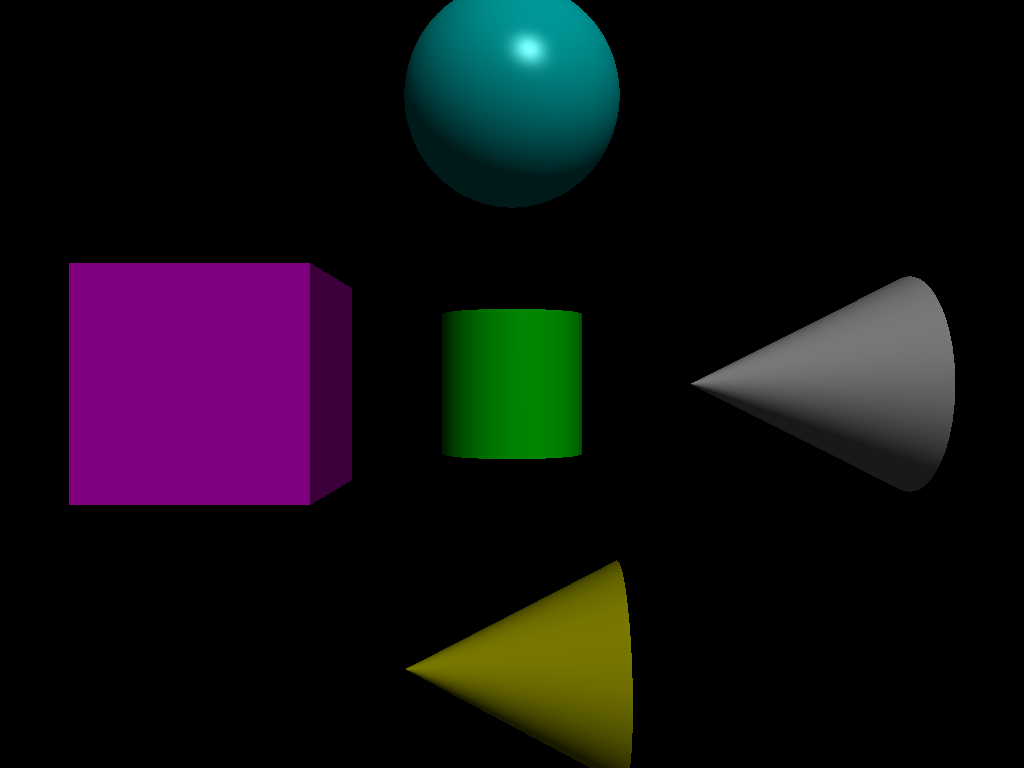
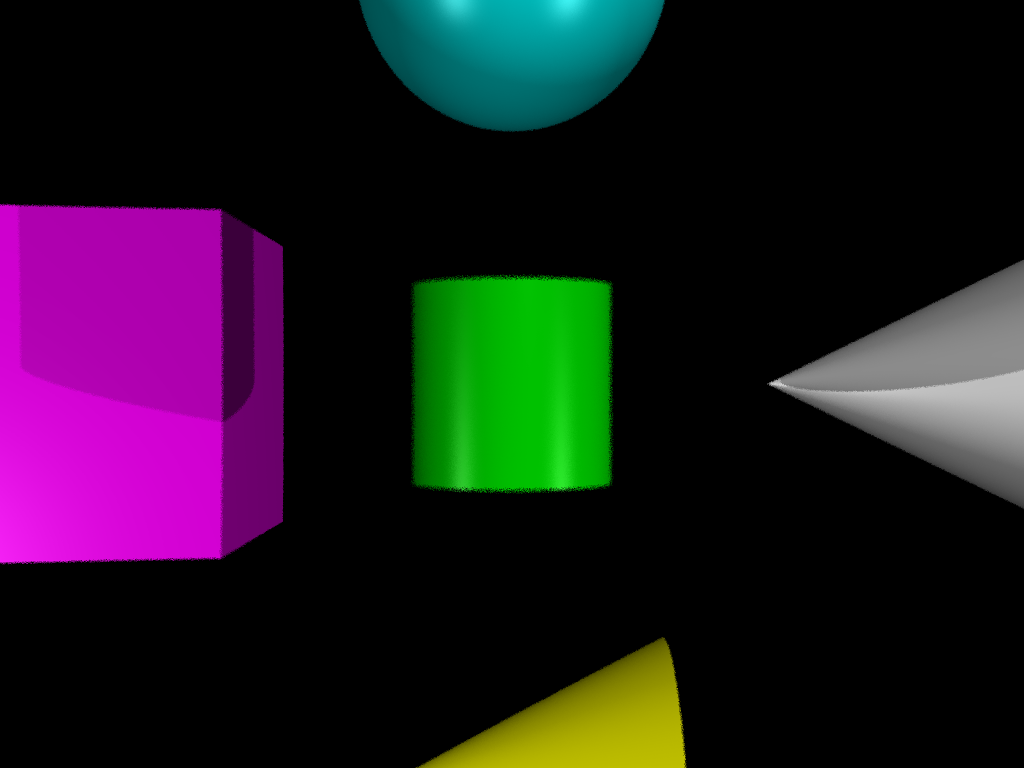
appropriate samples obtained

diff --git a/src/raytracer/raytracer.cpp b/src/raytracer/raytracer.cpp
@@ -175,7 +175,7 @@ RGBA RayTracer::lensMaker(RayTracer::Ray  primaryRay, bool doPrint,RayTraceScene
     }
 
 
-    return RGBA{static_cast<uint8_t>((redAcc/6.f)), static_cast<uint8_t>((greenAcc/6.f)), static_cast<uint8_t>((blueAcc/6.f)), 255};
+    return RGBA{static_cast<uint8_t>((redAcc/sample)), static_cast<uint8_t>((greenAcc/sample)), static_cast<uint8_t>((blueAcc/sample)), 255};
 
 
 }
@@ -209,7 +209,7 @@ void RayTracer::DOF(RGBA *imageData, const RayTraceScene &scene){
             float k = 1.f;
             float x = ((i + 0.5)/(float)scene.width()) - 0.5;
             float y = (((float)scene.height() - 1 - j + 0.5)/(float)scene.height()) - 0.5;
-            float z = -k;
+            float z = -planeZ;
 
             float V = 2*k* tan(scene.getCamera().getHeightAngle()/2.f);
             float U = V * scene.getCamera().getAspectRatio();

diff --git a/src/raytracer/raytracer.h b/src/raytracer/raytracer.h
@@ -14,8 +14,9 @@ class RayTraceScene;
 class RayTracer
 {
 public:
-    float focalLength = 12.f;
-    float apperture = 0.1f;
+    float focalLength = 16.f;
+    float apperture = 0.09f;
+    float planeZ = 1.f;
     bool dofEnable = true;
     int sample = 6;
 
